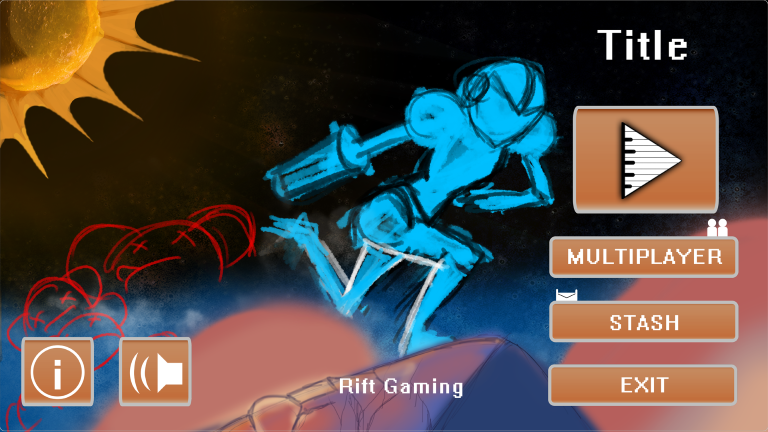
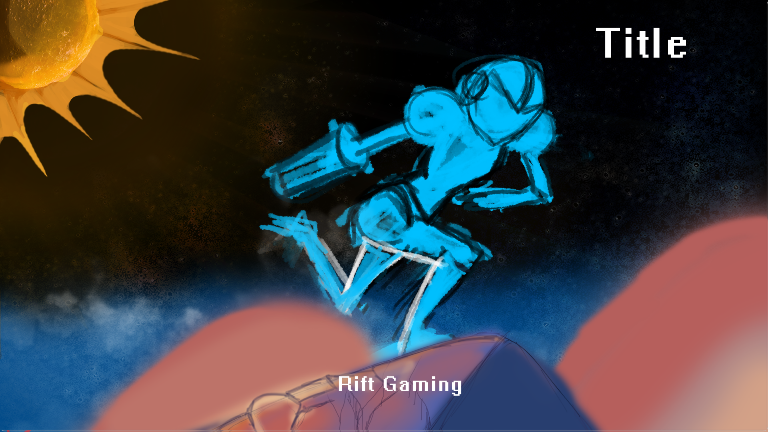
Choosing custom characters

diff --git a/Working Directory/js/Menu.js b/Working Directory/js/Menu.js
@@ -15,6 +15,20 @@ var imgSelectX = new Image();
 var imgLoginBtn = new Image();
 var imgCustBtn = new Image();
 var imgShopBtn = new Image();
+
+var imgTPlayBtn = new Image();
+var imgTMultBtn = new Image();
+var imgTStashBtn = new Image();
+var imgTExitBtn = new Image();
+var imgTInfo = new Image();
+var imgTSnd = new Image();
+var imgLeftArrow = new Image();
+var imgRightArrow = new Image();
+
+var imgChar1 = new Image();
+var imgChar2 = new Image();
+var imgChar3 = new Image();
+
 var shop;
 
 function Menu (){
@@ -38,6 +52,11 @@ function Menu (){
     this.timer=0;
     this.selectedGun = "assault";
     this.currLvl = 0;
+    this.currChar = 0;
+    this.char1X = 218;
+    this.char1XTarg = 218;
+    this.doOnce = true;
+    this.titleSelected = false;
     //custom upgrades
 }
 
@@ -61,7 +80,26 @@ window.mobileAndTabletcheck = function() {
   return check;
 }
 
+Menu.prototype.setBtn = function(){
+	this.titleBtnPos = [[970,240,"levelSelect",imgTPlayBtn,370,277],[965,380,"multiplayer",imgTMultBtn,480,153],
+						[965,480,"stash",imgTStashBtn,480,140],[965,575,"Exit",imgTExitBtn,480,110]];
+	this.titleBtnPos2 = [[250,164,imgLoginBtn,290,110],[95,570,imgTInfo,190,180],[250,570,imgTSnd,190,180]];
+	this.charArrowPos = [[270,560,imgLeftArrow],[500,560,imgRightArrow]];
+}
+
 Menu.prototype.update = function() {
+	if(this.doOnce){
+		this.setBtn();
+		this.doOnce = false;
+	}
+
+
+	if(this.char1X< this.char1XTarg){
+		this.char1X+=5;
+	}
+	else if(this.char1X> this.char1XTarg){
+		this.char1X-=5;
+	}
 	this.timer++;
 	if(this.returnVals[0] === "null"){
 		return ["menu","titleScreen"];
@@ -77,7 +115,7 @@ Menu.prototype.update = function() {
 		if(multiplayer && _name ==="player1"){
 			console.log("multiplayer");
 			this.returnVals =["menu","levelSelect"];
-			return ["menu","levelSelect"];
+			//return ["menu","levelSelect"];
 		}
 	}
 	var temp = this.returnVals;
@@ -86,7 +124,23 @@ Menu.prototype.update = function() {
 			soundManager.stopSound("menuBack");
 		}
 	}
+	if(this.returnVals[1] ==="titleScreen" && this.scene !=="titleScreen"){
+		this.setBtn();
+		this.titleSelected = false;
+	}
 	//this.returnVals = ["null","null"];
+	if(this.titleSelected === true){
+		for(var i =0; i< this.titleBtnPos.length; ++i){
+			this.titleBtnPos[i][0]+=3*i+1;
+		}
+		for(var i =0; i< 3; ++i){
+			this.titleBtnPos2[i][0]-=3*i+1;
+		}
+		
+	}
+	if(this.titleBtnPos[0][0] >= 1600){
+		this.titleSelected = false;
+	}
 	return temp;
 }
 
@@ -108,6 +162,8 @@ document.body.appendChild(iframe);
 var can = document.getElementById('canvasId');
 can.style.visibility = "hidden";*/
 console.log(e.clientX ,e.clientY);
+	var mX = e.clientX;
+	var mY = e.clientY;
 
 	if(this.scene=== "titleScreen"){
 		if(this.drawExit){
@@ -122,23 +178,21 @@ console.log(e.clientX ,e.clientY);
 			}
 		}
 		else {
-			if(e.clientX >  860  && e.clientX <1075&&e.clientY>160&&e.clientY<315){//770,190,955,375
-				this.returnVals = ["menu","levelSelect"];
-				transitionTimer=0;
+			for(var i =0; i< this.titleBtnPos.length; ++i){
+				if((mX > this.titleBtnPos[i][0]-this.titleBtnPos[i][4]/2) &&(this.titleBtnPos[i][4]/2+this.titleBtnPos[i][0] >mX) &&
+					(this.titleBtnPos[i][1]-this.titleBtnPos[i][5]/2 <mY)&&(this.titleBtnPos[i][5]/2+this.titleBtnPos[i][1] >mY)){
+					if(i === 3){
+						this.drawExit = true;
+					}
+					else{	
+						this.returnVals = ["menu",this.titleBtnPos[i][2]];
+						transitionTimer=0;
+						this.titleSelected = true;
+					}
+				}
 			}
-			else if(e.clientX >  820  && e.clientX <1100&&e.clientY>350&&e.clientY<410){//770,190,955,375
-				this.returnVals = ["menu","multiplayer"];
-				transitionTimer=0;
-			}
-			else if(e.clientX >  820  && e.clientX <1100&&e.clientY>450&&e.clientY<510){//770,190,955,375
-				this.returnVals = ["menu","stash"];
-				transitionTimer=0;
-			}
-			else if(e.clientX >  820  && e.clientX <1100&&e.clientY>450&&e.clientY<510){//770,190,955,375
-				this.returnVals = ["menu","stash"];
-				transitionTimer=0;
-			}
-			else if(e.clientX >  100  && e.clientX <389&&e.clientY>100&&e.clientY<209){//770,190,955,375
+			if(e.clientX >  this.titleBtnPos2[0][0] - this.titleBtnPos2[0][3]/2  && e.clientX <this.titleBtnPos2[0][0]+this.titleBtnPos2[0][0]/2
+			&&e.clientY>this.titleBtnPos2[0][1] - this.titleBtnPos2[0][1]/2&&e.clientY<this.titleBtnPos2[0][1] +this.titleBtnPos2[0][1]/2){//770,190,955,375
 				var iframe = document.createElement('iframe');
 				iframe.style.visibility="visible";
 				iframe.style.position = "absolute";
@@ -148,11 +202,6 @@ console.log(e.clientX ,e.clientY);
 				document.body.appendChild(iframe);
 				var can = document.getElementById('canvasId');
 				can.style.visibility = "hidden";
-			}
-			else if(e.clientX >  820  && e.clientX <1100&&e.clientY>550&&e.clientY<610){//770,190,955,375
-				//Exit
-				console.log("Exit");
-				this.drawExit = true;
 			}
 		}
 	}
@@ -194,12 +243,10 @@ console.log(e.clientX ,e.clientY);
 					client.setPlayer("blue",this.selectedGun);
 				}
 			}
-			
 		}
 		else if(e.clientX < 300 && this.currLvl >0){
 			//scroll left
 			this.currLvl--;
-			console.log("scrollX");
 			this.scrollX += 1152;
 		}	
 		else if(e.clientX > 700 && this.currLvl <2){
@@ -270,6 +317,21 @@ function sqrt(x) {
 }
 
 Menu.prototype.updateCustom = function(mX,mY){
+
+	for(var i =0; i< this.charArrowPos.length; ++i){
+		if((mX > this.charArrowPos[i][0]-70/2) &&(70/2+this.charArrowPos[i][0] >mX) &&
+			(this.charArrowPos[i][1]-122/2 <mY)&&(122/2+this.charArrowPos[i][1] >mY)){
+			if(i ===0){
+				this.currChar--;
+				this.char1XTarg -=400;
+			}
+			else{
+				this.currChar++;
+				this.char1XTarg +=400;
+			}
+		}
+	}
+
 	//0 = radar, 1 = bomb, 2 = shield
 	for(var j =0; j<5;++j){
 		if(sqrt((this.btnPos[j][0] -mX)*(this.btnPos[j][0] -mX) +(this.btnPos[j][1] -mY)*(this.btnPos[j][1] -mY)) <40){
@@ -385,7 +447,15 @@ Menu.prototype.draw = function(scene){
 	if(scene ==="titleScreen"){
 
 		ctx.drawImage(imgTitleScreen, 0,0,1152,648);
-		ctx.drawImage(imgLoginBtn,100,100,289,109);
+		//ctx.drawImage(imgLoginBtn,100,100,289,109);
+		for(var i =0; i< this.titleBtnPos.length; ++i){
+			ctx.drawImage(this.titleBtnPos[i][3],this.titleBtnPos[i][0]-(this.titleBtnPos[i][4]/1.7)/2,
+				this.titleBtnPos[i][1] -(this.titleBtnPos[i][5]/1.7)/2 ,this.titleBtnPos[i][4]/1.7,this.titleBtnPos[i][5]/1.7);
+		}
+		for(var i =0; i< this.titleBtnPos2.length; ++i){
+			ctx.drawImage(this.titleBtnPos2[i][2],this.titleBtnPos2[i][0]-(this.titleBtnPos2[i][3]/1.7)/2,
+				this.titleBtnPos2[i][1] -(this.titleBtnPos2[i][4]/1.7)/2 ,this.titleBtnPos2[i][3]/1.7,this.titleBtnPos2[i][4]/1.7);
+		}
 		if(this.drawExit){
 			ctx.drawImage(imgExitPrompt, 0,0,1152,648);
 		}
@@ -420,7 +490,14 @@ Menu.prototype.draw = function(scene){
 		shop.draw();
 	}
 	else if(scene ==="custom"){
+		ctx.drawImage(imgLvlSelBack,-300,0,1152,648);
+		ctx.drawImage(imgChar1,this.char1X,50,340,600);
+		ctx.drawImage(imgChar2,this.char1X+400,50,340,600);
+		ctx.drawImage(imgChar3,this.char1X+800,50,340,600);
 		ctx.drawImage(imgCustomBack, 0,0,1152,648);
+		for(var i =0; i< this.charArrowPos.length; ++i){
+			ctx.drawImage(this.charArrowPos[i][2], this.charArrowPos[i][0]-70/2,this.charArrowPos[i][1]-122/2,70,122);
+		}
 		if(equipment[0]!==-1){
 			ctx.drawImage(imgSelectX,this.btnPos[equipment[0]][0]-50,this.btnPos[equipment[0]][1]-35,100,70);
 		}

diff --git a/Working Directory/js/SceneManager.js b/Working Directory/js/SceneManager.js
@@ -166,6 +166,20 @@ SceneManager.prototype.queueTitleAssets = function(){
 	assetManager.queueLoadImg("images/armoryScreen.png");
 	assetManager.queueLoadImg("images/exit_temp.png");
 	assetManager.queueLoadImg("images/LoginBtn.png");
+	assetManager.queueLoadImg("images/play_button.png");
+	assetManager.queueLoadImg("images/multiplayer_button.png");
+	assetManager.queueLoadImg("images/stash_button.png");
+	assetManager.queueLoadImg("images/exit_button.png");
+	assetManager.queueLoadImg("images/info_button.png");
+	assetManager.queueLoadImg("images/soundOn_button.png");
+	assetManager.queueLoadImg("images/LeftArrow.png");
+	assetManager.queueLoadImg("images/RightArrow.png");
+	assetManager.queueLoadImg("images/worldSelectFloat_01.png");
+	
+	assetManager.queueLoadImg("images/char1.png");
+	assetManager.queueLoadImg("images/char2.png");
+	assetManager.queueLoadImg("images/char3.png");
+
 	assetManager.queueLoadSnd("sounds/music/123.mp3");
 	assetManager.queueLoadSnd("sounds/sfx/silence.mp3");
 
@@ -178,7 +192,7 @@ SceneManager.prototype.queueTitleAssets = function(){
 }
 
 SceneManager.prototype.queueLvlSelectAssets = function(){
-	assetManager.queueLoadImg("images/worldSelectFloat_01.png");
+	
 	assetManager.queueLoadImg("images/world1.png");
 	assetManager.queueLoadImg("images/world2.png");
 	assetManager.queueLoadImg("images/worldTutorial.png");
@@ -195,6 +209,19 @@ SceneManager.prototype.setTitleImages = function(){
 	imgArmoryBack = assetManager.getAsset("images/armoryScreen.png");
 	imgExitPrompt = assetManager.getAsset("images/exit_temp.png");
 	imgLoginBtn = assetManager.getAsset("images/LoginBtn.png");
+	imgTPlayBtn =  assetManager.getAsset("images/play_button.png");
+	imgTMultBtn =  assetManager.getAsset("images/multiplayer_button.png");
+	imgTStashBtn =  assetManager.getAsset("images/stash_button.png");
+	imgTExitBtn = assetManager.getAsset("images/exit_button.png");
+	imgTInfo =  assetManager.getAsset("images/info_button.png");
+	imgTSnd = assetManager.getAsset("images/soundOn_button.png");
+	imgLeftArrow =  assetManager.getAsset("images/LeftArrow.png");
+	imgRightArrow = assetManager.getAsset("images/RightArrow.png");
+	imgLvlSelBack = assetManager.getAsset("images/worldSelectFloat_01.png");
+
+	imgChar1 = assetManager.getAsset("images/char1.png");
+	imgChar2 = assetManager.getAsset("images/char2.png");
+	imgChar3 = assetManager.getAsset("images/char3.png");
 
 	//temp
 	imgSelectX =  assetManager.getAsset("images/selected.png");
@@ -212,7 +239,7 @@ SceneManager.prototype.setTitleSounds = function(){
 }
 
 SceneManager.prototype.setLvlSelectImages = function(){
-	imgLvlSelBack = assetManager.getAsset("images/worldSelectFloat_01.png");
+	
 	imgLvlSel1 = assetManager.getAsset("images/world1.png");
 	imgLvlSel2 = assetManager.getAsset("images/world2.png");
 	imgLvlSelTut = assetManager.getAsset("images/worldTutorial.png");

diff --git a/Working Directory/js/Player.js b/Working Directory/js/Player.js
@@ -16,7 +16,7 @@ var equipment = [-1,-1];
 
 
 var Player=function (name){
-	this.gun = "shotgun";
+	this.gun = "assault";
 	this.bullets =[];
 	this.rotSpeed = 0.01;
 	this.width = 128;
@@ -170,6 +170,7 @@ Player.prototype.setPos = function(x,y,o,_int){//used for multiplayer for second
 }
 
 Player.prototype.initP2 = function(color,gun){//used for multiplayer for second player
+	console.log(gun);
 	this.gun = gun;
 }
 
@@ -204,9 +205,9 @@ Player.prototype.shoot = function(){
 	//if(KeyController.isKeyDown(Key.SPACE)){
 		this.angle = this.aimAssist();
 		if(this.numBullets>0 && this.bulletTimer>this.shotDelay){
-			if(this.name === "player2"){
+			/*if(this.name === "player2"){
 				console.log("player 2 shoot" +this.numBullets+this.bulletTimer);
-			}
+			}*/
 			if(this.gun ==="assault"){
 				var bullet = new Bullet();
 				bullet.spawnBullet(this.xFacing,this.yFacing,this.bulletX,this.bulletY,this.angle);

diff --git a/Working Directory/js/Enemy.js b/Working Directory/js/Enemy.js
@@ -181,6 +181,7 @@ Enemy.prototype.update = function(){
 
 Enemy.prototype.debugDraw = function(){
 	ctx.drawImage(imgViewRad,this.x- this.viewRadius, this.y - this.viewRadius, this.viewRadius*2, this.viewRadius*2);
+	ctx.drawImage(imgViewRad,this.x- this.hitRadius, this.y - this.hitRadius, this.hitRadius*2, this.hitRadius*2);
 	if(this.drawLast){
 		ctx.drawImage(imgBullet,this.targetPosX, this.targetPosY, 8, 8);
 	}
@@ -367,7 +368,7 @@ Enemy.prototype.moveBasic = function(){
 	this.moveDirection = "forward";
 	//causes regular changes in direction
 	if(this.timeSinceDirectChange>40){
-		this.angle = random();//Math.random()*(8-1) +1;
+		this.angle = Math.random()*(8-1) +1;
 		this.timeSinceDirectChange = 0;
 	}
 	if(this.moveDirection == "forward"){
